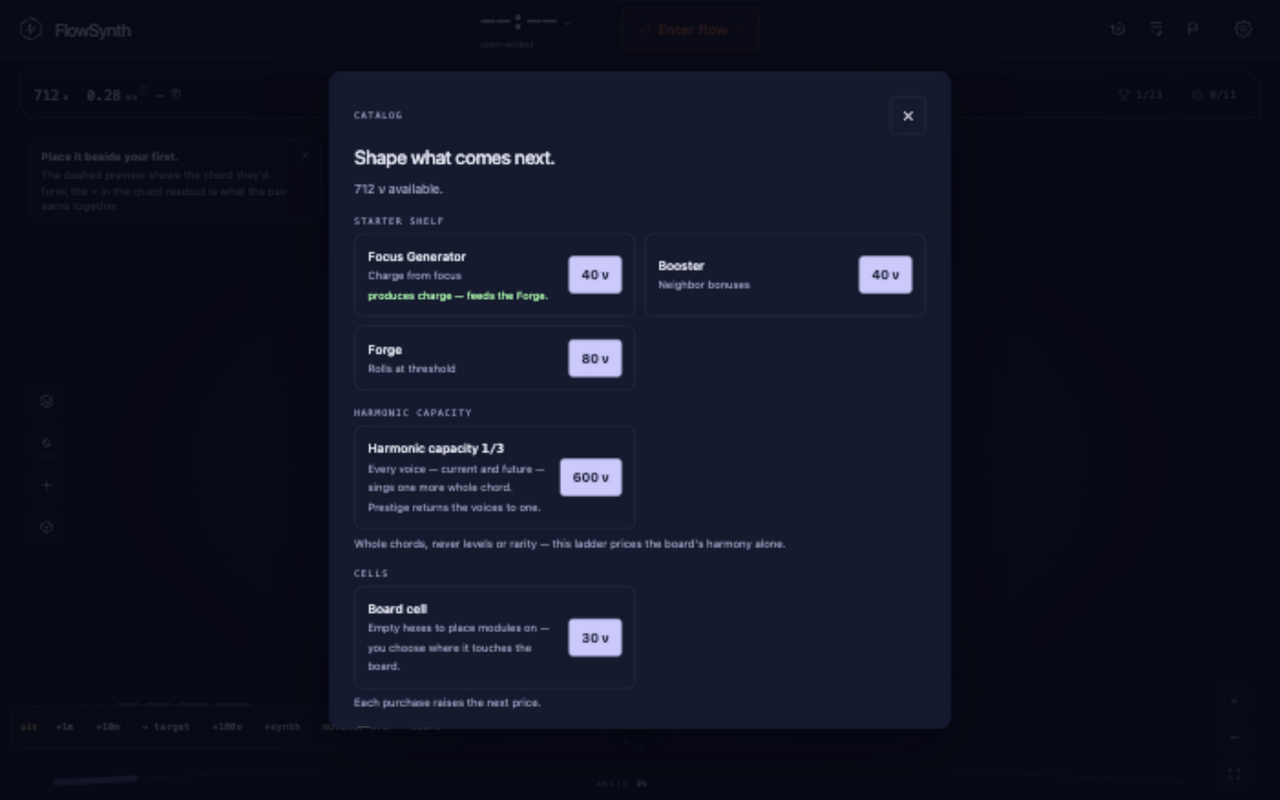
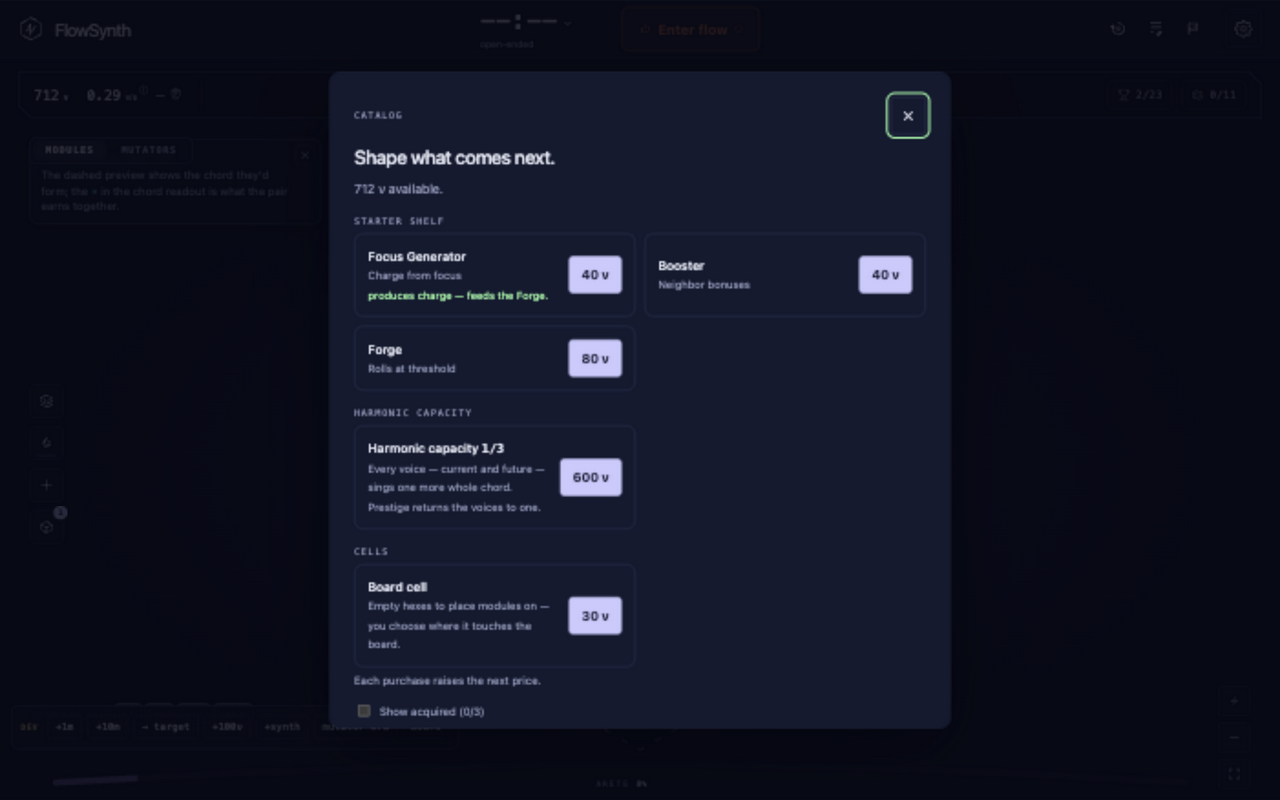
Recapture first-rung evidence at the review-fix commit

diff --git a/docs/evidence/pr-259/README.md b/docs/evidence/pr-259/README.md
@@ -5,21 +5,21 @@ Implemented and exercised on branch `t3code/implement-issue-259` in this worktre
 ## Automated checks
 
 - `npm run check`: passed.
-- `npx vitest run`: 49 files, 1,041 tests passed (before the UI-suite addition; the ladder suites and the full `src/ui/app.test.ts` pass after it — see the commit's recorded run).
-- New engine suite `src/engine/capacity.test.ts` pins the acceptance scenarios: exact whole-nous spend raising every current and future voice, the two-rung first-era ladder and its cap, flow-mode refusal, the Arete ceiling/discount ladders (order, prices, ceilings-above-discounts), save/reload with lenient zero defaults, corrupt-count degradation and ceiling clamping, prestige's reset-and-repurchase cycle, and the permanent offerings surviving it.
+- `npx vitest run` at the final commit: 49 files, 1,051 tests passed — including the new engine suite, the new UI suite, and the full `src/ui/app.test.ts`.
+- New engine suite `src/engine/capacity.test.ts` pins the acceptance scenarios: exact whole-nous spend raising every current and future voice, the two-rung first-era ladder and its cap, flow-mode and insufficient-nous refusals, the Arete ceiling/discount ladders (order, prices, ceilings-above-discounts), save/reload with lenient zero defaults, corrupt-count degradation and ceiling/ladder clamping, prestige's reset-and-repurchase cycle, and the permanent offerings surviving it.
 - New UI suite `the harmonic-capacity ladder (#259)` in `src/ui/app.test.ts`: ordinary play omits both capacity surfaces; the dev Catalog quotes figure, price, benefit, and the practice-minute estimate; a purchase lands and re-reads the row; the capped and complete states; the Arete sheet's two locked pairs, owned words, and flow-mode inertness; ladder ownership across the app's real save path.
 
 ## Browser provenance and desktop evidence
 
-Launched this checkout with `npm run dev`. The preview was `http://localhost:5175/?dev=1`; the browser fetched `/-/dev/provenance` and confirmed:
+Launched this checkout with `npm run dev`. The preview was `http://localhost:5175/?dev=1` for the working-tree captures and `http://localhost:5173/?dev=1` for the final post-review-fix capture; the browser fetched `/-/dev/provenance` both times and confirmed:
 
 - Worktree: `/Users/thelemina/.t3/worktrees/flowsynth/t3code-19350805`.
 - Branch: `t3code/implement-issue-259`.
-- Commit: `0ebcc3b74f7cb43cf9f440c9f314e25a86ba08a8` (working tree carries the implementation).
+- Commit: `3e493a9adcc10c2f424b6b26f29803e4580093f6` (final capture; the working-tree captures predate only the review fixes' copy move into the tooltip).
 
 Captures, desktop 1,402 × 877 CSS px:
 
-- [First rung](catalog-first-rung.png): the Catalog's development-only Harmonic capacity row — figure `1/3`, the whole-chord benefit and prestige-reset copy, and the quoted `600 ν` price button in the shop row grammar (open rows, condensed name, mono price).
+- [First rung](catalog-first-rung.png): the Catalog's development-only Harmonic capacity row — figure `1/3`, the whole-chord benefit and prestige-reset copy, and the quoted `600 ν` price button in the shop row grammar (open rows, condensed name, mono price). Deeper mechanics — the spend, the discount, the never-levels-or-rarity rule — ride the button's native tooltip.
 - [Second rung](catalog-second-rung-countdown.png): after the purchase the figure reads `2/3`, the exact spend is visible in the balance (712 → 112 ν), and the next rung stands disabled with its practice-minute estimate (`in ~29h 14m of practice`).
 - [Capped](catalog-capped.png): at `3/3` the buy button is replaced by the engraved `capped` word and the pointer note at the Arete sheet; no price exists to quote.
 - [Offerings, locked pair](arete-offerings-locked.png): the Arete sheet's development-only section — two ceilings and two discounts, the second of each pair locked "After the first" with its `title` giving the why.
